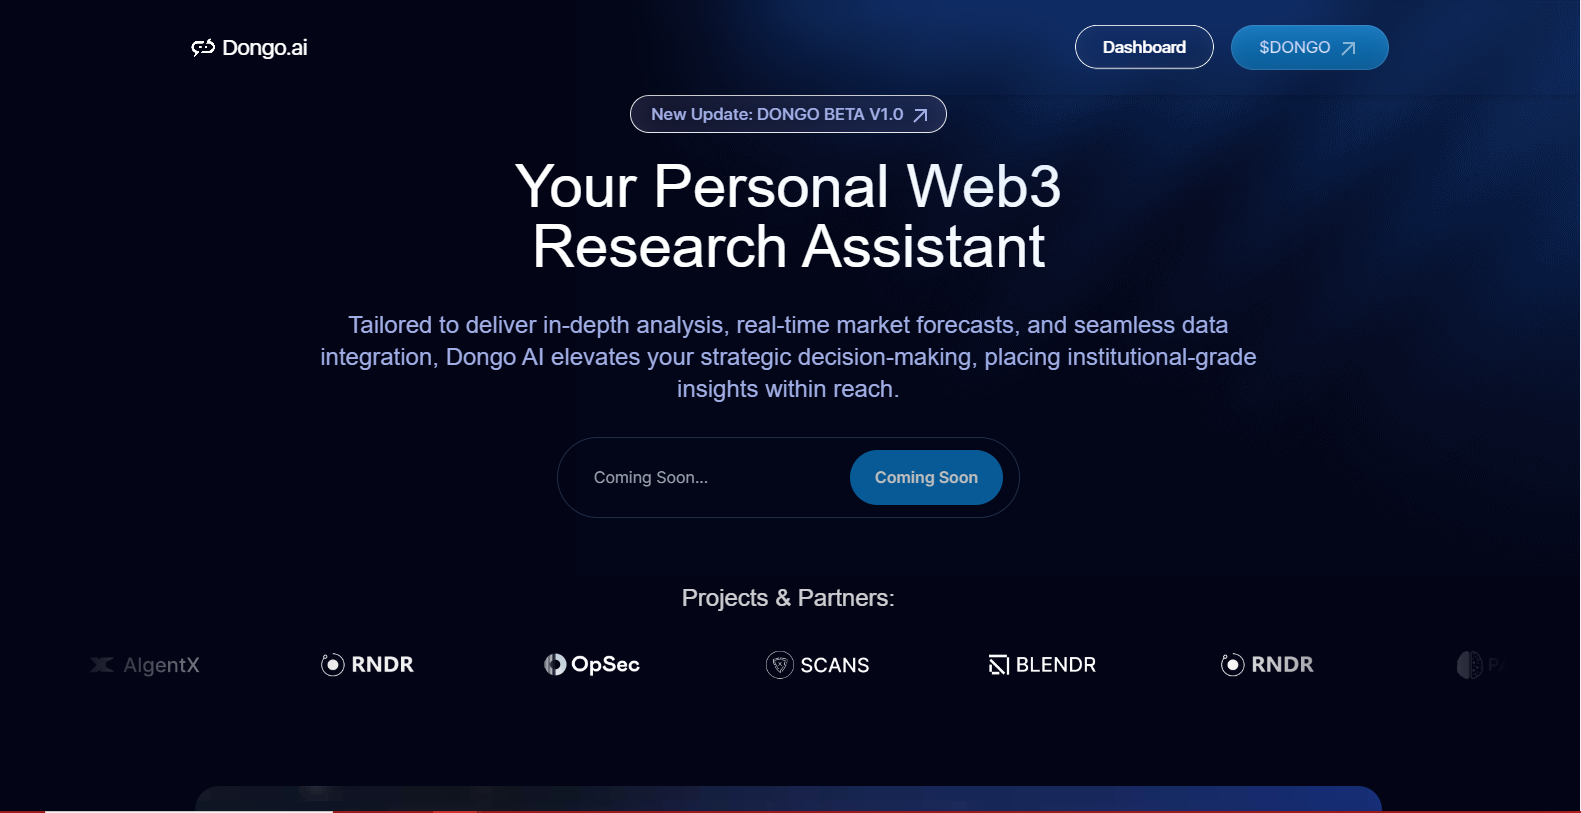
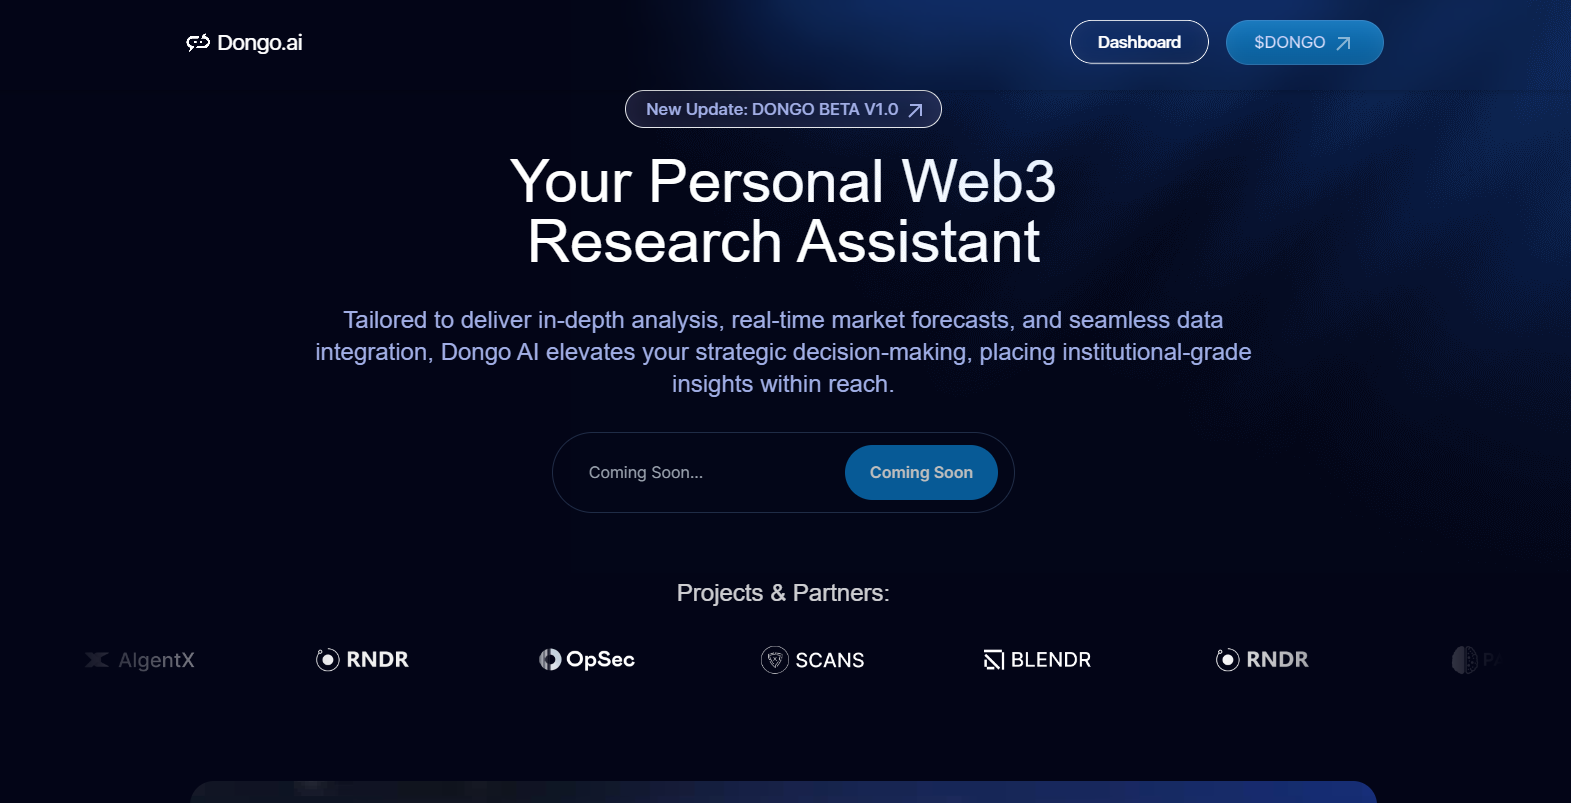
update-projects

diff --git a/src/Components/Features.jsx b/src/Components/Features.jsx
@@ -9,8 +9,10 @@ import "../Style/Style.css";
 import brand1 from "../Assest/Images/moyo.png";
 import brand2 from "../Assest/Images/dongo.png";
 import brand3 from "../Assest/Images/p6.png";
-import brand4 from "../Assest/Images/p4.jpeg";
-import brand5 from "../Assest/Images/p5.png";
+import brand4 from "../Assest/Images/Screenshot (456).png";
+import brand5 from "../Assest/Images/Screenshot (458).png";
+import brand6 from "../Assest/Images/Screenshot (461).png";
+import brand7 from "../Assest/Images/Screenshot (460).png";
 
 function Freature() {
   const [inView, setInView] = useState(false);
@@ -74,12 +76,12 @@ function Freature() {
       des: "Web Analytics",
     },
     {
-      url: brand1,
+      url: brand6,
       title: "Web Design",
       des: "Web Analytics",
     },
     {
-      url: brand2,
+      url: brand7,
       title: "Mobile info",
       des: "Upcoming phone",
     },

diff --git a/public/index.html b/public/index.html
@@ -24,7 +24,7 @@
       work correctly both with client-side routing and a non-root public URL.
       Learn how to configure a non-root public URL by running `npm run build`.
     -->
-    <title>React App</title>
+    <title>flyyourtech</title>
     
   </head>
   <body>
